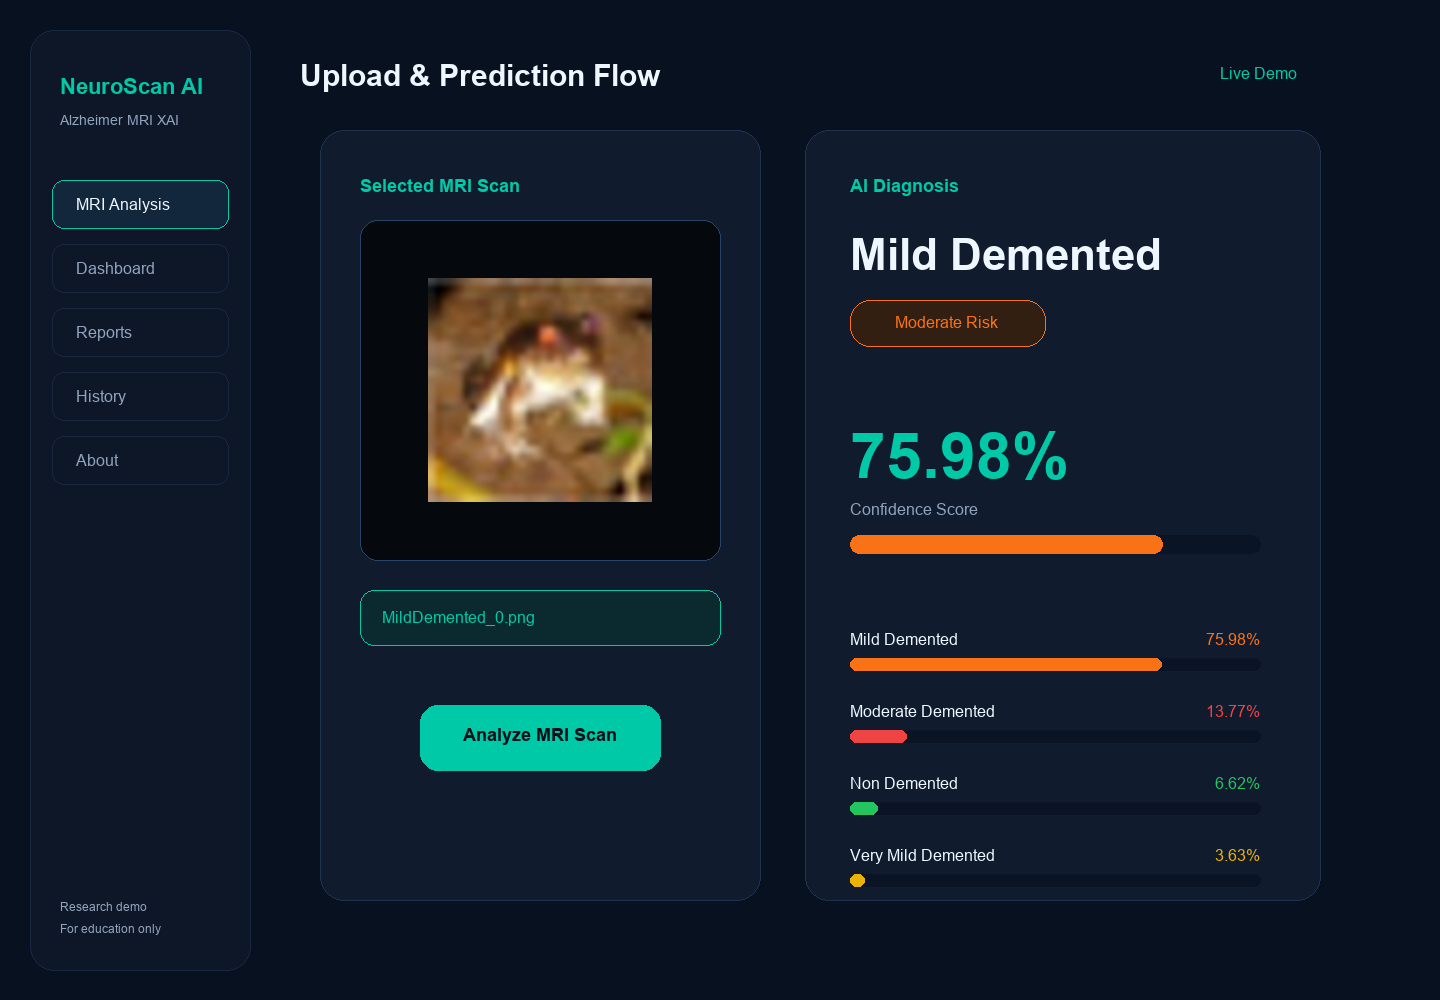
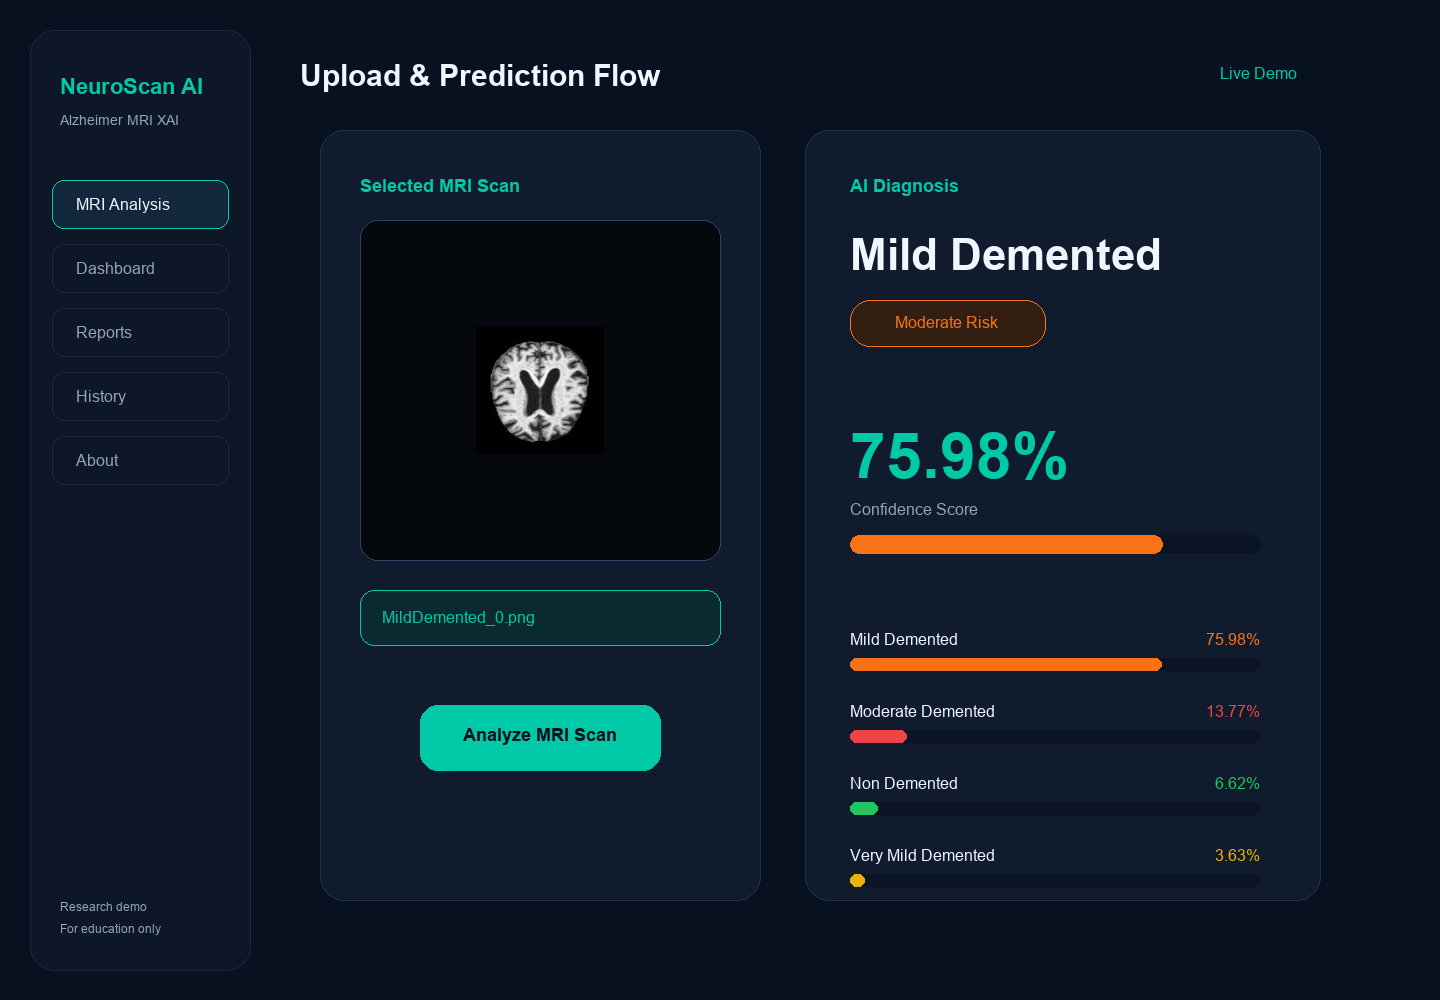
Fix MRI demo assets and smoke test

Changed region(s): [[0.2812, 0.279, 0.4688, 0.527]]

diff --git a/app/app.py b/app/app.py
@@ -2,7 +2,7 @@
 =============================================================================
  Explainable AI-Based Alzheimer's Disease Detection and Clinical Insight System
  File: app/app.py
- Author: Pratikshya Gopal | Healthcare AI System
+ Author: Pratikshya Gopal B Priyanka| Healthcare AI System
 =============================================================================
  Routes:
    GET  /             → Home / Upload page
@@ -438,4 +438,4 @@ if __name__ == "__main__":
     print("  Explainable AI-Based Alzheimer's Disease Detection System")
     print("  URL: http://localhost:5000")
     print("=" * 70)
-    app.run(debug=True, host="0.0.0.0", port=5000)
+    app.run(debug=True, host="0.0.0.0", port=5000, use_reloader=False)

diff --git a/_test_pipeline.py b/_test_pipeline.py
@@ -5,8 +5,9 @@ from gradcam import generate_gradcam
 from clinical_insights import get_clinical_insights
 from pdf_report import generate_pdf_report
 
-result = predict_image('dummy.jpg')
-b64 = generate_gradcam('dummy.jpg', model=None)
+image_path = 'data/test/MildDemented/mild.jpg'
+result = predict_image(image_path)
+b64 = generate_gradcam(image_path, model=None)
 ins = get_clinical_insights(result['class'], result['confidence'])
 pdf = generate_pdf_report(result, ins, patient_name='Test Patient')
 print('ALL MODULES OK')

diff --git a/scripts/capture_screenshots.py b/scripts/capture_screenshots.py
@@ -7,7 +7,7 @@ from PIL import Image, ImageDraw, ImageFont
 ROOT = Path(__file__).resolve().parents[1]
 OUT = ROOT / "screenshots"
 UPLOADS = ROOT / "static" / "uploads"
-MRI = UPLOADS / "scan_cf5afccdfc.png"
+MRI = ROOT / "data" / "test" / "MildDemented" / "mild.jpg"
 HEATMAP = UPLOADS / "scan_cf5afccdfc_heatmap.png"
 
 BG = "#08111f"
